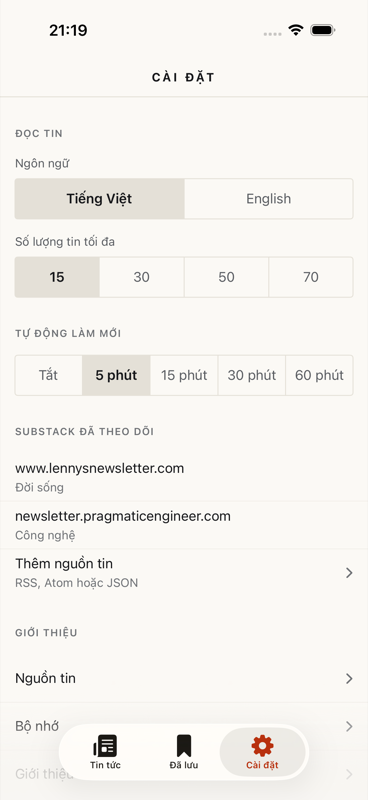
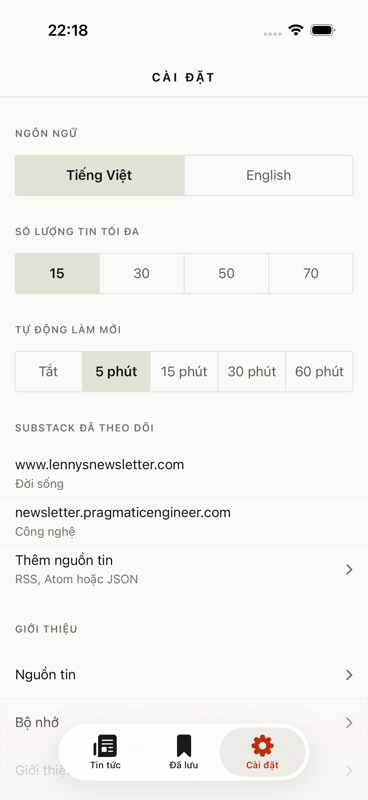
Give settings one kind of section label (#59)

diff --git a/VietNews/Presentation/Settings/SettingsView.swift b/VietNews/Presentation/Settings/SettingsView.swift
@@ -13,7 +13,8 @@ struct SettingsView: View {
                 MastheadView(title: L10n.settingsTitle(language))
                 ScrollView {
                     VStack(spacing: 0) {
-                        reading
+                        languageSetting
+                        maxArticles
                         refresh
                         subscriptions
                         more
@@ -34,35 +35,40 @@ struct SettingsView: View {
         }
     }
 
-    /// Reading comes first, and language first within it, because it is the preference that
-    /// changes everything else on the screen.
-    private var reading: some View {
-        SettingsGroup(title: L10n.settingsSectionReading(language)) {
-            SettingsField(title: L10n.settingsSectionLanguage(language)) {
-                SegmentedControl(
-                    options: Language.allCases,
-                    // Deliberately untranslated. A language is always listed in its own name, so
-                    // a reader who cannot read the current one can still find theirs.
-                    title: { $0 == .vietnamese ? "Tiếng Việt" : "English" },
-                    identifier: { "settings.language.\($0.rawValue)" },
-                    selection: languageBinding
-                )
-            }
+    /// Language comes first because it is the preference that changes everything else on the
+    /// screen.
+    ///
+    /// Its own group rather than a labelled field inside a "Reading" one. The screen used to
+    /// carry two kinds of label: uppercase tracked headings for groups, and sentence case labels
+    /// for the fields under them, which read as two competing title styles on one screen. Every
+    /// section is a heading and its control now.
+    private var languageSetting: some View {
+        SettingsGroup(title: L10n.settingsSectionLanguage(language)) {
+            SegmentedControl(
+                options: Language.allCases,
+                // Deliberately untranslated. A language is always listed in its own name, so
+                // a reader who cannot read the current one can still find theirs.
+                title: { $0 == .vietnamese ? "Tiếng Việt" : "English" },
+                identifier: { "settings.language.\($0.rawValue)" },
+                selection: languageBinding
+            )
+            .padding(.horizontal, Tokens.Space.l)
+        }
+    }
 
-            SettingsField(title: L10n.settingsSectionMaxArticles(language)) {
-                SegmentedControl(
-                    options: SettingsViewModel.articleCountOptions,
-                    title: { "\($0)" },
-                    selection: $viewModel.maxArticles
-                )
-            }
+    private var maxArticles: some View {
+        SettingsGroup(title: L10n.settingsSectionMaxArticles(language)) {
+            SegmentedControl(
+                options: SettingsViewModel.articleCountOptions,
+                title: { "\($0)" },
+                selection: $viewModel.maxArticles
+            )
+            .padding(.horizontal, Tokens.Space.l)
         }
     }
 
     private var refresh: some View {
         SettingsGroup(title: L10n.settingsSectionAutoRefresh(language)) {
-            // No field label: the group heading already says "Auto-refresh", and repeating it
-            // directly beneath was the same words twice.
             SegmentedControl(
                 options: SettingsViewModel.refreshIntervalOptions,
                 title: { Self.intervalLabel(for: $0, language: language) },

diff --git a/VietNews/Infrastructure/Localization/Localization.swift b/VietNews/Infrastructure/Localization/Localization.swift
@@ -50,7 +50,6 @@ enum L10n: String, CaseIterable {
     case settingsCategory = "settings.category"
     case settingsAdd = "settings.add"
     case settingsInvalidURLTitle = "settings.invalidURL.title"
-    case settingsSectionReading = "settings.section.reading"
     case settingsSectionStorage = "settings.section.storage"
     case settingsSectionAbout = "settings.section.about"
     case storageCached = "storage.cached"
